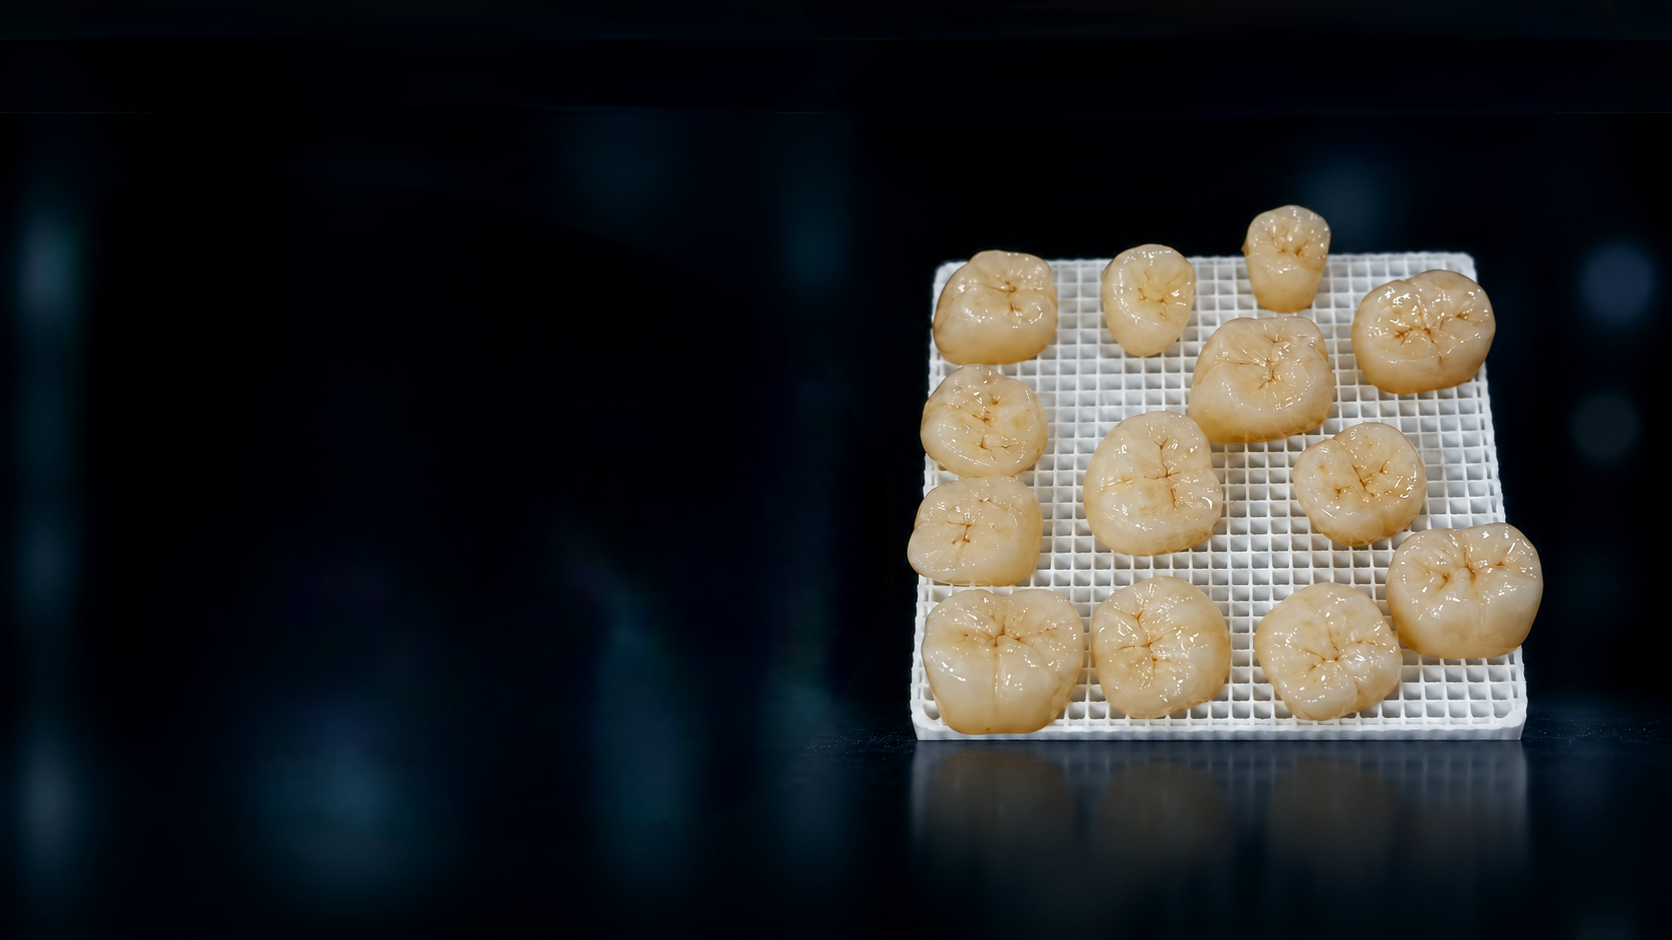
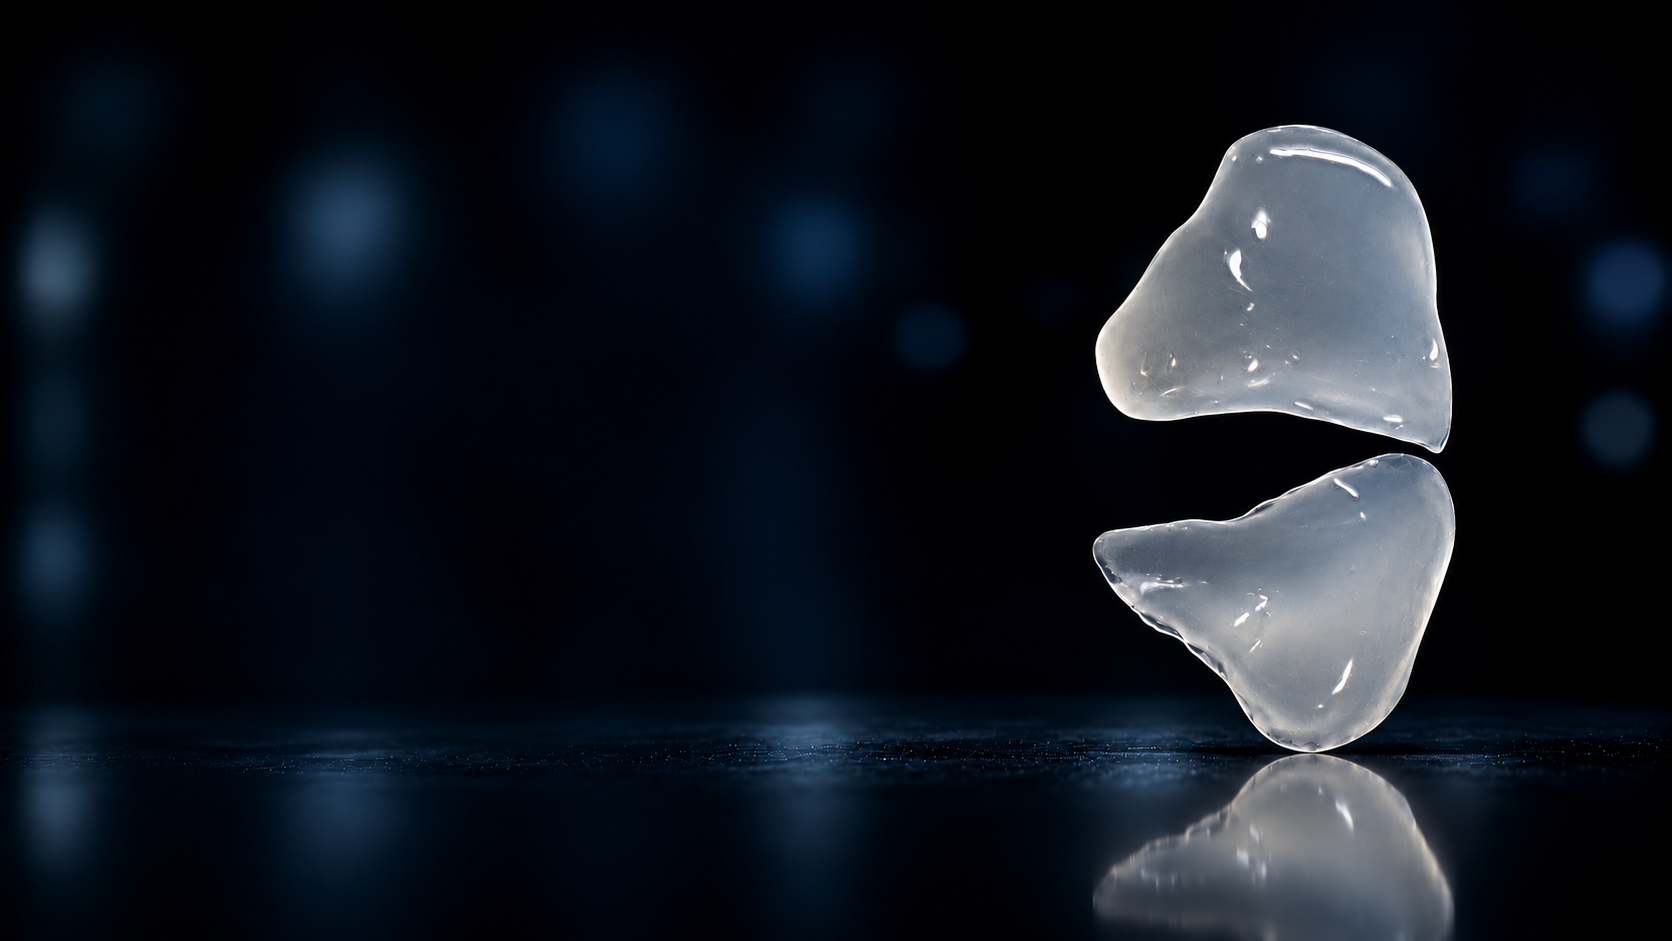
fix: Image

diff --git a/index.html b/index.html
@@ -630,8 +630,8 @@
                         <!-- COMPETENCY 3 -->
                         <div class="group relative bg-charcol-800/80 backdrop-blur-md border border-[rgba(145,205,224,0.15)] shadow-[0_8px_30px_rgb(4,8,15,0.4)] hover:border-ice-500/40 transition-all duration-300 hover:-translate-y-1">
                             <div class="relative h-52 overflow-hidden bg-navy-800 border-b border-[rgba(145,205,224,0.12)]">
-                                <img src="https://images.unsplash.com/photo-1639772823907-a716be4bdecc?auto=format&fit=crop&w=1400&q=85"
-                                    alt="현미경을 이용한 정밀 품질 검사"
+                                <img src="img/01_home_qualityControl.png"
+                                    alt="qualityControl"
                                     class="w-full h-full object-cover opacity-85 transition-transform duration-700 group-hover:scale-105"
                                     loading="lazy">
                                 <div class="absolute inset-0 bg-gradient-to-t from-navy-900/80 via-transparent to-transparent"></div>
@@ -689,7 +689,6 @@
                             <i class="fa-solid fa-arrow-right text-xs text-ice-500 group-hover:translate-x-1 transition-transform"></i>
                         </a>
                     </div>
-
                     <!-- PRODUCT CARDS GRID -->
                     <div class="grid grid-cols-1 md:grid-cols-2 lg:grid-cols-4 gap-6">
 
@@ -1336,15 +1335,12 @@
 
                                 <div class="relative overflow-hidden bg-charcol-900 border border-[rgba(145,205,224,0.15)] shadow-[0_20px_50px_rgba(4,8,15,0.7)]">
                                     <!-- Reliable dental workflow image -->
-                                    <img src="https://dental-media.formlabs.com/filer_public_thumbnails/filer_public/57/ef/57ef1677-abc7-417a-8845-fb59bbe3003e/optimized_for_web_jpeg-formlabs_form_4_2024_040.jpg__1354x0_q85_subsampling-2.jpg"
-                                        alt="Digital dental laboratory workflow"
-                                        class="w-full aspect-[16/8] object-cover filter brightness-90 group-hover:scale-105 transition-all duration-700" loading="lazy">
+                                    <img src="img/03_product_dentalWorkflow.png"
+                                        alt="dentalWorkflow"
+                                        class="w-full h-auto filter brightness-90 group-hover:scale-105 transition-all duration-700" loading="lazy">
                                     
-                                    <!-- 그라데이션 오버레이 -->
-                                    <div class="absolute inset-0 bg-gradient-to-t from-navy-900/90 via-navy-900/30 to-transparent pointer-events-none"></div>
-
                                     <!-- 하단 캡션 바 -->
-                                    <div class="absolute bottom-0 left-0 right-0 p-6 bg-navy-900/80 backdrop-blur-md border-t border-[rgba(145,205,224,0.12)]">
+                                    <div class="p-6 bg-navy-900/80 backdrop-blur-md border-t border-[rgba(145,205,224,0.12)]">
                                         <span class="text-[10px] font-sans tracking-[0.2em] uppercase text-ice-500 font-semibold block">
                                             CHAEUM DIGITAL WORKFLOW
                                         </span>
